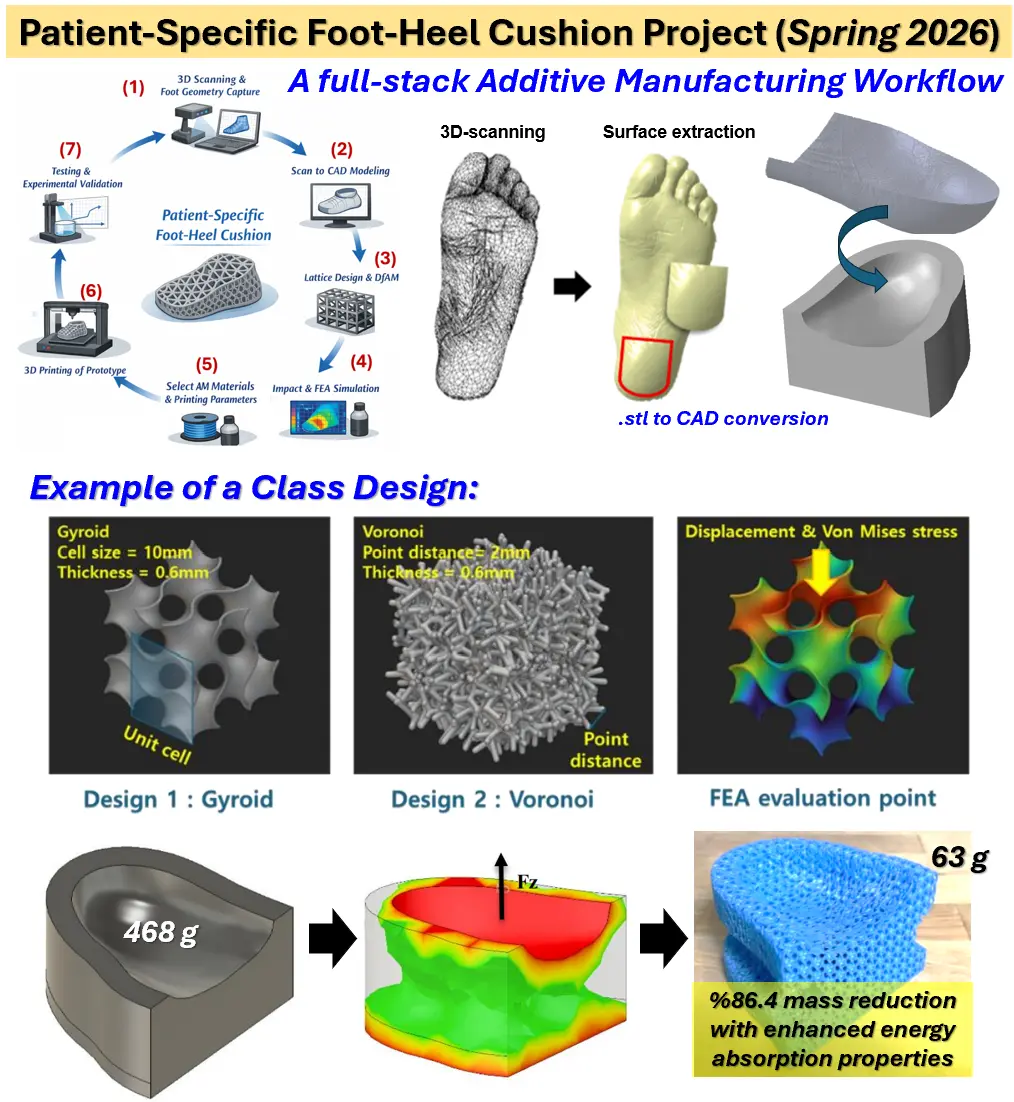
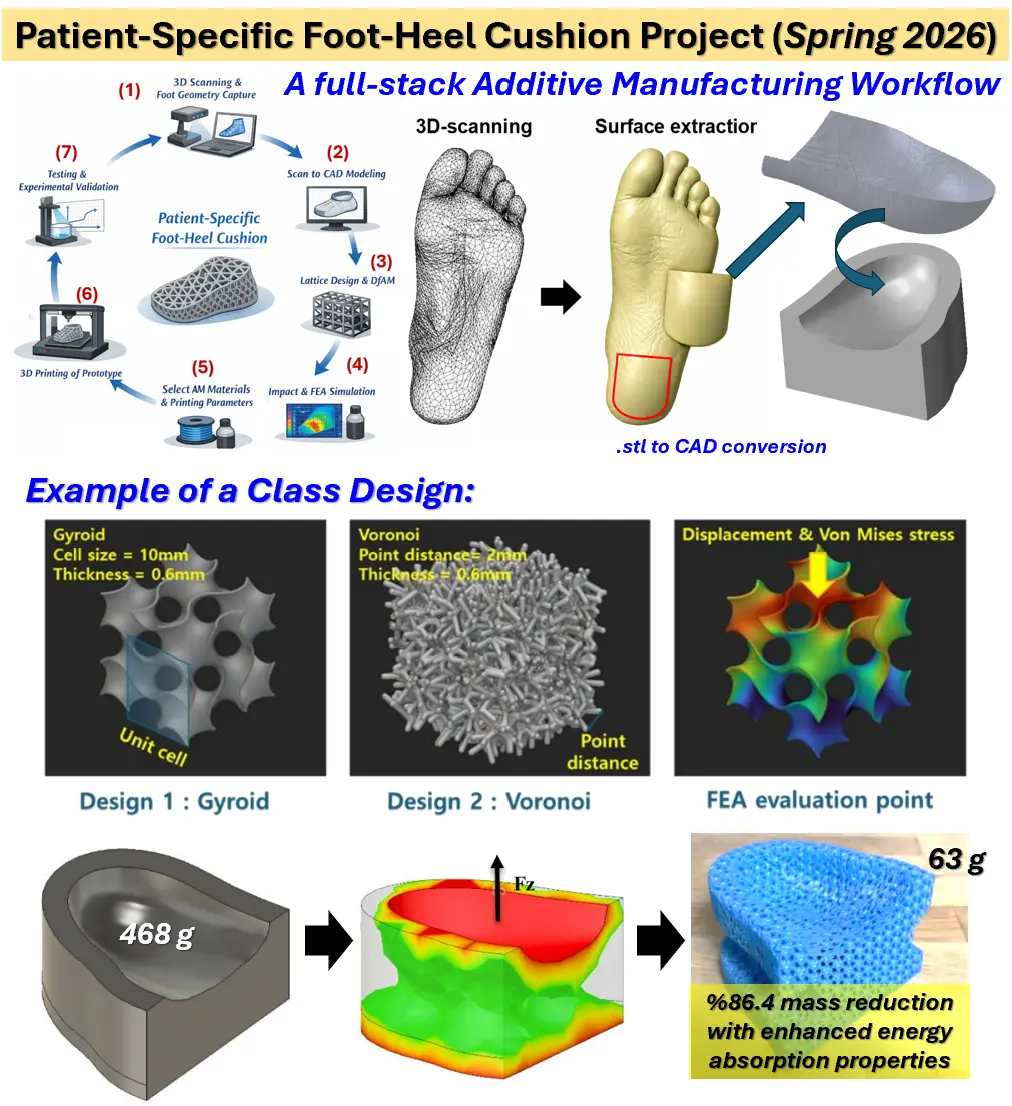
Deploying to gh-pages from @ semi-lab/semi-lab.github.io@d43e9a763296f2c657e978357be70d705b392c82 🚀

diff --git a/2021/07/04/diagrams.html b/2021/07/04/diagrams.html
@@ -6,5 +6,5 @@ sequenceDiagram
     Alice-&gt;&gt;John: Hello John, how are you?
     John--&gt;&gt;Alice: Great!
 {% endmermaid %}
-</code></pre></div></div> <div class="jekyll-diagrams diagrams mermaid"> <svg id="mermaid-1780844392173" width="100%" xmlns="http://www.w3.org/2000/svg" height="100%" style="max-width:450px;" viewbox="-50 -10 450 231"><style>#mermaid-1780844392173 .label{font-family:trebuchet ms,verdana,arial;color:#333}#mermaid-1780844392173 .node circle,#mermaid-1780844392173 .node ellipse,#mermaid-1780844392173 .node polygon,#mermaid-1780844392173 .node rect{fill:#ececff;stroke:#9370db;stroke-width:1px}#mermaid-1780844392173 .node.clickable{cursor:pointer}#mermaid-1780844392173 .arrowheadPath{fill:#333}#mermaid-1780844392173 .edgePath .path{stroke:#333;stroke-width:1.5px}#mermaid-1780844392173 .edgeLabel{background-color:#e8e8e8}#mermaid-1780844392173 .cluster rect{fill:#ffffde!important;stroke:#aa3!important;stroke-width:1px!important}#mermaid-1780844392173 .cluster text{fill:#333}#mermaid-1780844392173 div.mermaidTooltip{position:absolute;text-align:center;max-width:200px;padding:2px;font-family:trebuchet ms,verdana,arial;font-size:12px;background:#ffffde;border:1px solid #aa3;border-radius:2px;pointer-events:none;z-index:100}#mermaid-1780844392173 .actor{stroke:#ccf;fill:#ececff}#mermaid-1780844392173 text.actor{fill:#000;stroke:none}#mermaid-1780844392173 .actor-line{stroke:grey}#mermaid-1780844392173 .messageLine0{marker-end:"url(#arrowhead)"}#mermaid-1780844392173 .messageLine0,#mermaid-1780844392173 .messageLine1{stroke-width:1.5;stroke-dasharray:"2 2";stroke:#333}#mermaid-1780844392173 #arrowhead{fill:#333}#mermaid-1780844392173 #crosshead path{fill:#333!important;stroke:#333!important}#mermaid-1780844392173 .messageText{fill:#333;stroke:none}#mermaid-1780844392173 .labelBox{stroke:#ccf;fill:#ececff}#mermaid-1780844392173 .labelText,#mermaid-1780844392173 .loopText{fill:#000;stroke:none}#mermaid-1780844392173 .loopLine{stroke-width:2;stroke-dasharray:"2 2";marker-end:"url(#arrowhead)";stroke:#ccf}#mermaid-1780844392173 .note{stroke:#aa3;fill:#fff5ad}#mermaid-1780844392173 .noteText{fill:#000;stroke:none;font-family:trebuchet ms,verdana,arial;font-size:14px}#mermaid-1780844392173 .section{stroke:none;opacity:.2}#mermaid-1780844392173 .section0{fill:rgba(102,102,255,.49)}#mermaid-1780844392173 .section2{fill:#fff400}#mermaid-1780844392173 .section1,#mermaid-1780844392173 .section3{fill:#fff;opacity:.2}#mermaid-1780844392173 .sectionTitle0,#mermaid-1780844392173 .sectionTitle1,#mermaid-1780844392173 .sectionTitle2,#mermaid-1780844392173 .sectionTitle3{fill:#333}#mermaid-1780844392173 .sectionTitle{text-anchor:start;font-size:11px;text-height:14px}#mermaid-1780844392173 .grid .tick{stroke:#d3d3d3;opacity:.3;shape-rendering:crispEdges}#mermaid-1780844392173 .grid path{stroke-width:0}#mermaid-1780844392173 .today{fill:none;stroke:red;stroke-width:2px}#mermaid-1780844392173 .task{stroke-width:2}#mermaid-1780844392173 .taskText{text-anchor:middle;font-size:11px}#mermaid-1780844392173 .taskTextOutsideRight{fill:#000;text-anchor:start;font-size:11px}#mermaid-1780844392173 .taskTextOutsideLeft{fill:#000;text-anchor:end;font-size:11px}#mermaid-1780844392173 .taskText0,#mermaid-1780844392173 .taskText1,#mermaid-1780844392173 .taskText2,#mermaid-1780844392173 .taskText3{fill:#fff}#mermaid-1780844392173 .task0,#mermaid-1780844392173 .task1,#mermaid-1780844392173 .task2,#mermaid-1780844392173 .task3{fill:#8a90dd;stroke:#534fbc}#mermaid-1780844392173 .taskTextOutside0,#mermaid-1780844392173 .taskTextOutside1,#mermaid-1780844392173 .taskTextOutside2,#mermaid-1780844392173 .taskTextOutside3{fill:#000}#mermaid-1780844392173 .active0,#mermaid-1780844392173 .active1,#mermaid-1780844392173 .active2,#mermaid-1780844392173 .active3{fill:#bfc7ff;stroke:#534fbc}#mermaid-1780844392173 .activeText0,#mermaid-1780844392173 .activeText1,#mermaid-1780844392173 .activeText2,#mermaid-1780844392173 .activeText3{fill:#000!important}#mermaid-1780844392173 .done0,#mermaid-1780844392173 .done1,#mermaid-1780844392173 .done2,#mermaid-1780844392173 .done3{stroke:grey;fill:#d3d3d3;stroke-width:2}#mermaid-1780844392173 .doneText0,#mermaid-1780844392173 .doneText1,#mermaid-1780844392173 .doneText2,#mermaid-1780844392173 .doneText3{fill:#000!important}#mermaid-1780844392173 .crit0,#mermaid-1780844392173 .crit1,#mermaid-1780844392173 .crit2,#mermaid-1780844392173 .crit3{stroke:#f88;fill:red;stroke-width:2}#mermaid-1780844392173 .activeCrit0,#mermaid-1780844392173 .activeCrit1,#mermaid-1780844392173 .activeCrit2,#mermaid-1780844392173 .activeCrit3{stroke:#f88;fill:#bfc7ff;stroke-width:2}#mermaid-1780844392173 .doneCrit0,#mermaid-1780844392173 .doneCrit1,#mermaid-1780844392173 .doneCrit2,#mermaid-1780844392173 .doneCrit3{stroke:#f88;fill:#d3d3d3;stroke-width:2;cursor:pointer;shape-rendering:crispEdges}#mermaid-1780844392173 .activeCritText0,#mermaid-1780844392173 .activeCritText1,#mermaid-1780844392173 .activeCritText2,#mermaid-1780844392173 .activeCritText3,#mermaid-1780844392173 .doneCritText0,#mermaid-1780844392173 .doneCritText1,#mermaid-1780844392173 .doneCritText2,#mermaid-1780844392173 .doneCritText3{fill:#000!important}#mermaid-1780844392173 .titleText{text-anchor:middle;font-size:18px;fill:#000}
-#mermaid-1780844392173 g.classGroup text{fill:#9370db;stroke:none;font-family:trebuchet ms,verdana,arial;font-size:10px}#mermaid-1780844392173 g.classGroup rect{fill:#ececff;stroke:#9370db}#mermaid-1780844392173 g.classGroup line{stroke:#9370db;stroke-width:1}#mermaid-1780844392173 .classLabel .box{stroke:none;stroke-width:0;fill:#ececff;opacity:.5}#mermaid-1780844392173 .classLabel .label{fill:#9370db;font-size:10px}#mermaid-1780844392173 .relation{stroke:#9370db;stroke-width:1;fill:none}#mermaid-1780844392173 #compositionEnd,#mermaid-1780844392173 #compositionStart{fill:#9370db;stroke:#9370db;stroke-width:1}#mermaid-1780844392173 #aggregationEnd,#mermaid-1780844392173 #aggregationStart{fill:#ececff;stroke:#9370db;stroke-width:1}#mermaid-1780844392173 #dependencyEnd,#mermaid-1780844392173 #dependencyStart,#mermaid-1780844392173 #extensionEnd,#mermaid-1780844392173 #extensionStart{fill:#9370db;stroke:#9370db;stroke-width:1}#mermaid-1780844392173 .branch-label,#mermaid-1780844392173 .commit-id,#mermaid-1780844392173 .commit-msg{fill:#d3d3d3;color:#d3d3d3}</style> <style>#mermaid-1780844392173{color:#000;font:normal normal 400 normal 16px / normal "Times New Roman"}</style> <g></g><g><line id="actor0" x1="75" y1="5" x2="75" y2="220" class="actor-line" stroke-width="0.5px" stroke="#999"></line><rect x="0" y="0" fill="#eaeaea" stroke="#666" width="150" height="65" rx="3" ry="3" class="actor"></rect><text x="75" y="32.5" dominant-baseline="central" alignment-baseline="central" class="actor" style="text-anchor: middle;"><tspan x="75" dy="0">John</tspan></text></g><g><line id="actor1" x1="275" y1="5" x2="275" y2="220" class="actor-line" stroke-width="0.5px" stroke="#999"></line><rect x="200" y="0" fill="#eaeaea" stroke="#666" width="150" height="65" rx="3" ry="3" class="actor"></rect><text x="275" y="32.5" dominant-baseline="central" alignment-baseline="central" class="actor" style="text-anchor: middle;"><tspan x="275" dy="0">Alice</tspan></text></g><defs><marker id="arrowhead" refx="5" refy="2" markerwidth="6" markerheight="4" orient="auto"><path d="M 0,0 V 4 L6,2 Z"></path></marker></defs><defs><marker id="crosshead" markerwidth="15" markerheight="8" orient="auto" refx="16" refy="4"><path fill="black" stroke="#000000" stroke-width="1px" d="M 9,2 V 6 L16,4 Z" style="stroke-dasharray: 0, 0;"></path><path fill="none" stroke="#000000" stroke-width="1px" d="M 0,1 L 6,7 M 6,1 L 0,7" style="stroke-dasharray: 0, 0;"></path></marker></defs><g><text x="175" y="93" class="messageText" style="text-anchor: middle;">Hello John, how are you?</text><line x1="275" y1="100" x2="75" y2="100" class="messageLine0" stroke-width="2" stroke="black" marker-end="url(#arrowhead)" style="fill: none;"></line></g><g><text x="175" y="128" class="messageText" style="text-anchor: middle;">Great!</text><line x1="75" y1="135" x2="275" y2="135" class="messageLine1" stroke-width="2" stroke="black" marker-end="url(#arrowhead)" style="stroke-dasharray: 3, 3; fill: none;"></line></g><g><rect x="0" y="155" fill="#eaeaea" stroke="#666" width="150" height="65" rx="3" ry="3" class="actor"></rect><text x="75" y="187.5" dominant-baseline="central" alignment-baseline="central" class="actor" style="text-anchor: middle;"><tspan x="75" dy="0">John</tspan></text></g><g><rect x="200" y="155" fill="#eaeaea" stroke="#666" width="150" height="65" rx="3" ry="3" class="actor"></rect><text x="275" y="187.5" dominant-baseline="central" alignment-baseline="central" class="actor" style="text-anchor: middle;"><tspan x="275" dy="0">Alice</tspan></text></g></svg> </div> </div> </article> </div> </div> <footer class="fixed-bottom"> <div class="container mt-0"> © Copyright 2026 SEMI Laboratory. </div> </footer> <script src="https://cdn.jsdelivr.net/npm/jquery@3.6.0/dist/jquery.min.js" integrity="sha256-/xUj+3OJU5yExlq6GSYGSHk7tPXikynS7ogEvDej/m4=" crossorigin="anonymous"></script> <script src="https://cdn.jsdelivr.net/npm/bootstrap@4.6.1/dist/js/bootstrap.bundle.min.js" integrity="sha256-fgLAgv7fyCGopR/gBNq2iW3ZKIdqIcyshnUULC4vex8=" crossorigin="anonymous"></script> <script src="https://cdn.jsdelivr.net/npm/mdbootstrap@4.20.0/js/mdb.min.js" integrity="sha256-NdbiivsvWt7VYCt6hYNT3h/th9vSTL4EDWeGs5SN3DA=" crossorigin="anonymous"></script> <script defer src="https://cdn.jsdelivr.net/npm/masonry-layout@4.2.2/dist/masonry.pkgd.min.js" integrity="sha256-Nn1q/fx0H7SNLZMQ5Hw5JLaTRZp0yILA/FRexe19VdI=" crossorigin="anonymous"></script> <script defer src="https://cdn.jsdelivr.net/npm/imagesloaded@4/imagesloaded.pkgd.min.js"></script> <script defer src="/assets/js/masonry.js" type="text/javascript"></script> <script defer src="https://cdn.jsdelivr.net/npm/medium-zoom@1.0.8/dist/medium-zoom.min.js" integrity="sha256-7PhEpEWEW0XXQ0k6kQrPKwuoIomz8R8IYyuU1Qew4P8=" crossorigin="anonymous"></script> <script defer src="/assets/js/zoom.js"></script> <script defer src="https://unpkg.com/bootstrap-table@1.21.4/dist/bootstrap-table.min.js"></script> <script src="/assets/js/no_defer.js?d633890033921b33e0ceb13d22340a9c"></script> <script defer src="/assets/js/common.js?acdb9690d7641b2f8d40529018c71a01"></script> <script defer src="/assets/js/copy_code.js?c9d9dd48933de3831b3ee5ec9c209cac" type="text/javascript"></script> <script async src="https://d1bxh8uas1mnw7.cloudfront.net/assets/embed.js"></script> <script type="text/javascript">window.MathJax={tex:{tags:"ams"}};</script> <script defer type="text/javascript" id="MathJax-script" src="https://cdn.jsdelivr.net/npm/mathjax@3.2.0/es5/tex-mml-chtml.js"></script> <script type="text/javascript">function progressBarSetup(){"max"in document.createElement("progress")?(initializeProgressElement(),$(document).on("scroll",function(){progressBar.attr({value:getCurrentScrollPosition()})}),$(window).on("resize",initializeProgressElement)):(resizeProgressBar(),$(document).on("scroll",resizeProgressBar),$(window).on("resize",resizeProgressBar))}function getCurrentScrollPosition(){return $(window).scrollTop()}function initializeProgressElement(){let e=$("#navbar").outerHeight(!0);$("body").css({"padding-top":e}),$("progress-container").css({"padding-top":e}),progressBar.css({top:e}),progressBar.attr({max:getDistanceToScroll(),value:getCurrentScrollPosition()})}function getDistanceToScroll(){return $(document).height()-$(window).height()}function resizeProgressBar(){progressBar.css({width:getWidthPercentage()+"%"})}function getWidthPercentage(){return getCurrentScrollPosition()/getDistanceToScroll()*100}const progressBar=$("#progress");window.onload=function(){setTimeout(progressBarSetup,50)};</script> </body> </html>
+</code></pre></div></div> <div class="jekyll-diagrams diagrams mermaid"> <svg id="mermaid-1780844803258" width="100%" xmlns="http://www.w3.org/2000/svg" height="100%" style="max-width:450px;" viewbox="-50 -10 450 231"><style>#mermaid-1780844803258 .label{font-family:trebuchet ms,verdana,arial;color:#333}#mermaid-1780844803258 .node circle,#mermaid-1780844803258 .node ellipse,#mermaid-1780844803258 .node polygon,#mermaid-1780844803258 .node rect{fill:#ececff;stroke:#9370db;stroke-width:1px}#mermaid-1780844803258 .node.clickable{cursor:pointer}#mermaid-1780844803258 .arrowheadPath{fill:#333}#mermaid-1780844803258 .edgePath .path{stroke:#333;stroke-width:1.5px}#mermaid-1780844803258 .edgeLabel{background-color:#e8e8e8}#mermaid-1780844803258 .cluster rect{fill:#ffffde!important;stroke:#aa3!important;stroke-width:1px!important}#mermaid-1780844803258 .cluster text{fill:#333}#mermaid-1780844803258 div.mermaidTooltip{position:absolute;text-align:center;max-width:200px;padding:2px;font-family:trebuchet ms,verdana,arial;font-size:12px;background:#ffffde;border:1px solid #aa3;border-radius:2px;pointer-events:none;z-index:100}#mermaid-1780844803258 .actor{stroke:#ccf;fill:#ececff}#mermaid-1780844803258 text.actor{fill:#000;stroke:none}#mermaid-1780844803258 .actor-line{stroke:grey}#mermaid-1780844803258 .messageLine0{marker-end:"url(#arrowhead)"}#mermaid-1780844803258 .messageLine0,#mermaid-1780844803258 .messageLine1{stroke-width:1.5;stroke-dasharray:"2 2";stroke:#333}#mermaid-1780844803258 #arrowhead{fill:#333}#mermaid-1780844803258 #crosshead path{fill:#333!important;stroke:#333!important}#mermaid-1780844803258 .messageText{fill:#333;stroke:none}#mermaid-1780844803258 .labelBox{stroke:#ccf;fill:#ececff}#mermaid-1780844803258 .labelText,#mermaid-1780844803258 .loopText{fill:#000;stroke:none}#mermaid-1780844803258 .loopLine{stroke-width:2;stroke-dasharray:"2 2";marker-end:"url(#arrowhead)";stroke:#ccf}#mermaid-1780844803258 .note{stroke:#aa3;fill:#fff5ad}#mermaid-1780844803258 .noteText{fill:#000;stroke:none;font-family:trebuchet ms,verdana,arial;font-size:14px}#mermaid-1780844803258 .section{stroke:none;opacity:.2}#mermaid-1780844803258 .section0{fill:rgba(102,102,255,.49)}#mermaid-1780844803258 .section2{fill:#fff400}#mermaid-1780844803258 .section1,#mermaid-1780844803258 .section3{fill:#fff;opacity:.2}#mermaid-1780844803258 .sectionTitle0,#mermaid-1780844803258 .sectionTitle1,#mermaid-1780844803258 .sectionTitle2,#mermaid-1780844803258 .sectionTitle3{fill:#333}#mermaid-1780844803258 .sectionTitle{text-anchor:start;font-size:11px;text-height:14px}#mermaid-1780844803258 .grid .tick{stroke:#d3d3d3;opacity:.3;shape-rendering:crispEdges}#mermaid-1780844803258 .grid path{stroke-width:0}#mermaid-1780844803258 .today{fill:none;stroke:red;stroke-width:2px}#mermaid-1780844803258 .task{stroke-width:2}#mermaid-1780844803258 .taskText{text-anchor:middle;font-size:11px}#mermaid-1780844803258 .taskTextOutsideRight{fill:#000;text-anchor:start;font-size:11px}#mermaid-1780844803258 .taskTextOutsideLeft{fill:#000;text-anchor:end;font-size:11px}#mermaid-1780844803258 .taskText0,#mermaid-1780844803258 .taskText1,#mermaid-1780844803258 .taskText2,#mermaid-1780844803258 .taskText3{fill:#fff}#mermaid-1780844803258 .task0,#mermaid-1780844803258 .task1,#mermaid-1780844803258 .task2,#mermaid-1780844803258 .task3{fill:#8a90dd;stroke:#534fbc}#mermaid-1780844803258 .taskTextOutside0,#mermaid-1780844803258 .taskTextOutside1,#mermaid-1780844803258 .taskTextOutside2,#mermaid-1780844803258 .taskTextOutside3{fill:#000}#mermaid-1780844803258 .active0,#mermaid-1780844803258 .active1,#mermaid-1780844803258 .active2,#mermaid-1780844803258 .active3{fill:#bfc7ff;stroke:#534fbc}#mermaid-1780844803258 .activeText0,#mermaid-1780844803258 .activeText1,#mermaid-1780844803258 .activeText2,#mermaid-1780844803258 .activeText3{fill:#000!important}#mermaid-1780844803258 .done0,#mermaid-1780844803258 .done1,#mermaid-1780844803258 .done2,#mermaid-1780844803258 .done3{stroke:grey;fill:#d3d3d3;stroke-width:2}#mermaid-1780844803258 .doneText0,#mermaid-1780844803258 .doneText1,#mermaid-1780844803258 .doneText2,#mermaid-1780844803258 .doneText3{fill:#000!important}#mermaid-1780844803258 .crit0,#mermaid-1780844803258 .crit1,#mermaid-1780844803258 .crit2,#mermaid-1780844803258 .crit3{stroke:#f88;fill:red;stroke-width:2}#mermaid-1780844803258 .activeCrit0,#mermaid-1780844803258 .activeCrit1,#mermaid-1780844803258 .activeCrit2,#mermaid-1780844803258 .activeCrit3{stroke:#f88;fill:#bfc7ff;stroke-width:2}#mermaid-1780844803258 .doneCrit0,#mermaid-1780844803258 .doneCrit1,#mermaid-1780844803258 .doneCrit2,#mermaid-1780844803258 .doneCrit3{stroke:#f88;fill:#d3d3d3;stroke-width:2;cursor:pointer;shape-rendering:crispEdges}#mermaid-1780844803258 .activeCritText0,#mermaid-1780844803258 .activeCritText1,#mermaid-1780844803258 .activeCritText2,#mermaid-1780844803258 .activeCritText3,#mermaid-1780844803258 .doneCritText0,#mermaid-1780844803258 .doneCritText1,#mermaid-1780844803258 .doneCritText2,#mermaid-1780844803258 .doneCritText3{fill:#000!important}#mermaid-1780844803258 .titleText{text-anchor:middle;font-size:18px;fill:#000}
+#mermaid-1780844803258 g.classGroup text{fill:#9370db;stroke:none;font-family:trebuchet ms,verdana,arial;font-size:10px}#mermaid-1780844803258 g.classGroup rect{fill:#ececff;stroke:#9370db}#mermaid-1780844803258 g.classGroup line{stroke:#9370db;stroke-width:1}#mermaid-1780844803258 .classLabel .box{stroke:none;stroke-width:0;fill:#ececff;opacity:.5}#mermaid-1780844803258 .classLabel .label{fill:#9370db;font-size:10px}#mermaid-1780844803258 .relation{stroke:#9370db;stroke-width:1;fill:none}#mermaid-1780844803258 #compositionEnd,#mermaid-1780844803258 #compositionStart{fill:#9370db;stroke:#9370db;stroke-width:1}#mermaid-1780844803258 #aggregationEnd,#mermaid-1780844803258 #aggregationStart{fill:#ececff;stroke:#9370db;stroke-width:1}#mermaid-1780844803258 #dependencyEnd,#mermaid-1780844803258 #dependencyStart,#mermaid-1780844803258 #extensionEnd,#mermaid-1780844803258 #extensionStart{fill:#9370db;stroke:#9370db;stroke-width:1}#mermaid-1780844803258 .branch-label,#mermaid-1780844803258 .commit-id,#mermaid-1780844803258 .commit-msg{fill:#d3d3d3;color:#d3d3d3}</style> <style>#mermaid-1780844803258{color:#000;font:normal normal 400 normal 16px / normal "Times New Roman"}</style> <g></g><g><line id="actor0" x1="75" y1="5" x2="75" y2="220" class="actor-line" stroke-width="0.5px" stroke="#999"></line><rect x="0" y="0" fill="#eaeaea" stroke="#666" width="150" height="65" rx="3" ry="3" class="actor"></rect><text x="75" y="32.5" dominant-baseline="central" alignment-baseline="central" class="actor" style="text-anchor: middle;"><tspan x="75" dy="0">John</tspan></text></g><g><line id="actor1" x1="275" y1="5" x2="275" y2="220" class="actor-line" stroke-width="0.5px" stroke="#999"></line><rect x="200" y="0" fill="#eaeaea" stroke="#666" width="150" height="65" rx="3" ry="3" class="actor"></rect><text x="275" y="32.5" dominant-baseline="central" alignment-baseline="central" class="actor" style="text-anchor: middle;"><tspan x="275" dy="0">Alice</tspan></text></g><defs><marker id="arrowhead" refx="5" refy="2" markerwidth="6" markerheight="4" orient="auto"><path d="M 0,0 V 4 L6,2 Z"></path></marker></defs><defs><marker id="crosshead" markerwidth="15" markerheight="8" orient="auto" refx="16" refy="4"><path fill="black" stroke="#000000" stroke-width="1px" d="M 9,2 V 6 L16,4 Z" style="stroke-dasharray: 0, 0;"></path><path fill="none" stroke="#000000" stroke-width="1px" d="M 0,1 L 6,7 M 6,1 L 0,7" style="stroke-dasharray: 0, 0;"></path></marker></defs><g><text x="175" y="93" class="messageText" style="text-anchor: middle;">Hello John, how are you?</text><line x1="275" y1="100" x2="75" y2="100" class="messageLine0" stroke-width="2" stroke="black" marker-end="url(#arrowhead)" style="fill: none;"></line></g><g><text x="175" y="128" class="messageText" style="text-anchor: middle;">Great!</text><line x1="75" y1="135" x2="275" y2="135" class="messageLine1" stroke-width="2" stroke="black" marker-end="url(#arrowhead)" style="stroke-dasharray: 3, 3; fill: none;"></line></g><g><rect x="0" y="155" fill="#eaeaea" stroke="#666" width="150" height="65" rx="3" ry="3" class="actor"></rect><text x="75" y="187.5" dominant-baseline="central" alignment-baseline="central" class="actor" style="text-anchor: middle;"><tspan x="75" dy="0">John</tspan></text></g><g><rect x="200" y="155" fill="#eaeaea" stroke="#666" width="150" height="65" rx="3" ry="3" class="actor"></rect><text x="275" y="187.5" dominant-baseline="central" alignment-baseline="central" class="actor" style="text-anchor: middle;"><tspan x="275" dy="0">Alice</tspan></text></g></svg> </div> </div> </article> </div> </div> <footer class="fixed-bottom"> <div class="container mt-0"> © Copyright 2026 SEMI Laboratory. </div> </footer> <script src="https://cdn.jsdelivr.net/npm/jquery@3.6.0/dist/jquery.min.js" integrity="sha256-/xUj+3OJU5yExlq6GSYGSHk7tPXikynS7ogEvDej/m4=" crossorigin="anonymous"></script> <script src="https://cdn.jsdelivr.net/npm/bootstrap@4.6.1/dist/js/bootstrap.bundle.min.js" integrity="sha256-fgLAgv7fyCGopR/gBNq2iW3ZKIdqIcyshnUULC4vex8=" crossorigin="anonymous"></script> <script src="https://cdn.jsdelivr.net/npm/mdbootstrap@4.20.0/js/mdb.min.js" integrity="sha256-NdbiivsvWt7VYCt6hYNT3h/th9vSTL4EDWeGs5SN3DA=" crossorigin="anonymous"></script> <script defer src="https://cdn.jsdelivr.net/npm/masonry-layout@4.2.2/dist/masonry.pkgd.min.js" integrity="sha256-Nn1q/fx0H7SNLZMQ5Hw5JLaTRZp0yILA/FRexe19VdI=" crossorigin="anonymous"></script> <script defer src="https://cdn.jsdelivr.net/npm/imagesloaded@4/imagesloaded.pkgd.min.js"></script> <script defer src="/assets/js/masonry.js" type="text/javascript"></script> <script defer src="https://cdn.jsdelivr.net/npm/medium-zoom@1.0.8/dist/medium-zoom.min.js" integrity="sha256-7PhEpEWEW0XXQ0k6kQrPKwuoIomz8R8IYyuU1Qew4P8=" crossorigin="anonymous"></script> <script defer src="/assets/js/zoom.js"></script> <script defer src="https://unpkg.com/bootstrap-table@1.21.4/dist/bootstrap-table.min.js"></script> <script src="/assets/js/no_defer.js?d633890033921b33e0ceb13d22340a9c"></script> <script defer src="/assets/js/common.js?acdb9690d7641b2f8d40529018c71a01"></script> <script defer src="/assets/js/copy_code.js?c9d9dd48933de3831b3ee5ec9c209cac" type="text/javascript"></script> <script async src="https://d1bxh8uas1mnw7.cloudfront.net/assets/embed.js"></script> <script type="text/javascript">window.MathJax={tex:{tags:"ams"}};</script> <script defer type="text/javascript" id="MathJax-script" src="https://cdn.jsdelivr.net/npm/mathjax@3.2.0/es5/tex-mml-chtml.js"></script> <script type="text/javascript">function progressBarSetup(){"max"in document.createElement("progress")?(initializeProgressElement(),$(document).on("scroll",function(){progressBar.attr({value:getCurrentScrollPosition()})}),$(window).on("resize",initializeProgressElement)):(resizeProgressBar(),$(document).on("scroll",resizeProgressBar),$(window).on("resize",resizeProgressBar))}function getCurrentScrollPosition(){return $(window).scrollTop()}function initializeProgressElement(){let e=$("#navbar").outerHeight(!0);$("body").css({"padding-top":e}),$("progress-container").css({"padding-top":e}),progressBar.css({top:e}),progressBar.attr({max:getDistanceToScroll(),value:getCurrentScrollPosition()})}function getDistanceToScroll(){return $(document).height()-$(window).height()}function resizeProgressBar(){progressBar.css({width:getWidthPercentage()+"%"})}function getWidthPercentage(){return getCurrentScrollPosition()/getDistanceToScroll()*100}const progressBar=$("#progress");window.onload=function(){setTimeout(progressBarSetup,50)};</script> </body> </html>